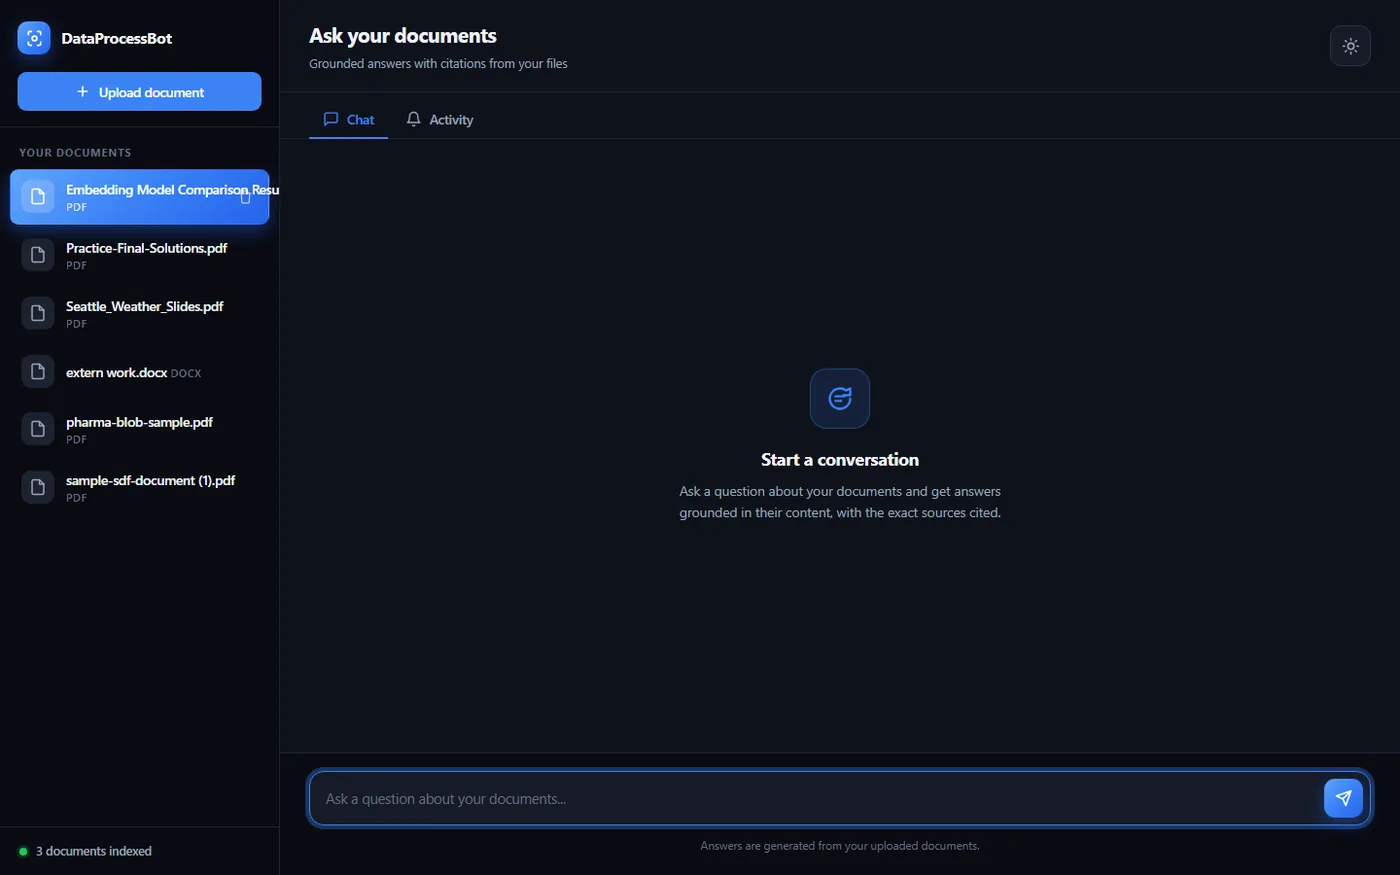
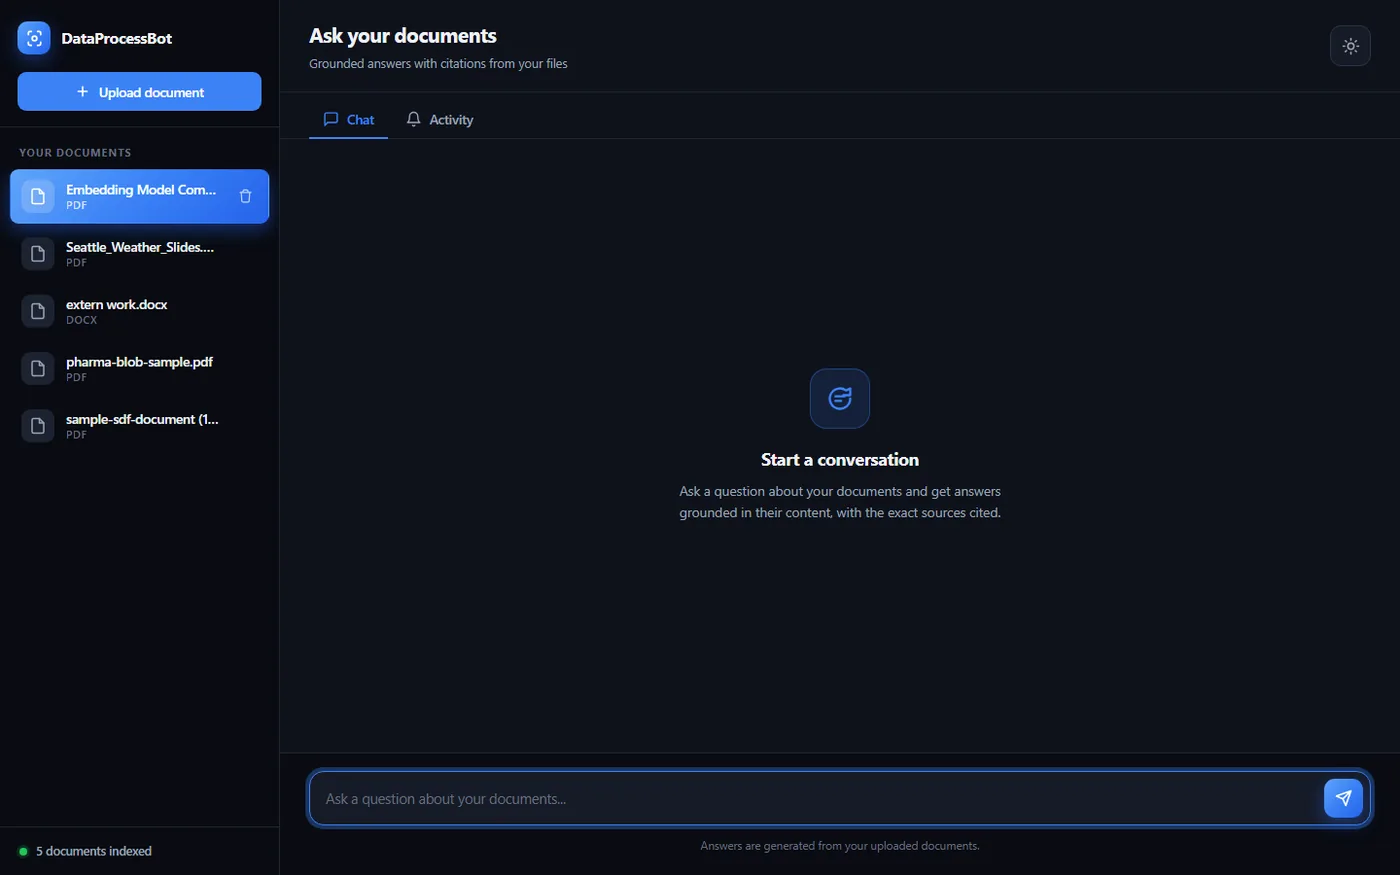
Add headshot and refresh DataProcessBot screenshot

diff --git a/index.html b/index.html
@@ -195,6 +195,12 @@ tr:last-child td{border-bottom:0}
 .lb.open{display:flex}
 .lb img{max-width:100%;max-height:100%;border-radius:6px;box-shadow:0 20px 60px rgba(0,0,0,.5)}
 .lb button{position:absolute;top:16px;right:18px;background:none;border:1px solid rgba(255,255,255,.4);color:#fff;border-radius:6px;padding:4px 10px;font:inherit;cursor:pointer}
+.avatar{width:72px;height:72px;border-radius:50%;object-fit:cover;display:block;margin-bottom:18px;border:1px solid var(--rule2);background:var(--panel)}
+.avatar.sm{width:52px;height:52px;margin:0}
+.avatar.lg{width:140px;height:140px;margin:4px 0 0}
+.mrow{display:flex;align-items:center;gap:14px}
+.mrow b{font-weight:600;font-size:1.05rem}
+.story{display:grid;grid-template-columns:140px 1fr;gap:32px;align-items:start}
 .pindex{border-top:1px solid var(--rule2)}
 .prow{border-bottom:1px solid var(--rule)}
 .prow summary{list-style:none;cursor:pointer;display:grid;grid-template-columns:minmax(0,1fr) minmax(0,1.5fr) 56px 22px;gap:20px;align-items:baseline;padding:20px 0}
@@ -309,7 +315,8 @@ footer{border-top:1px solid var(--rule);padding:22px 0 0;margin-top:40px;display
 }
 @media (max-width:620px){
   body{font-size:16px}
-  .grid2,.courses,.two,.go,.looking,.kinds,.how,.shots2{grid-template-columns:1fr}
+  .grid2,.courses,.two,.go,.looking,.kinds,.how,.shots2,.story{grid-template-columns:1fr}
+  .avatar.lg{width:96px;height:96px}
   .dg-svg{display:none}
   .dg-list{display:block}
   .pipe{flex-direction:column}
@@ -336,6 +343,7 @@ footer{border-top:1px solid var(--rule);padding:22px 0 0;margin-top:40px;display
 <div class="layout">
   <aside>
     <div class="who">
+      <img class="avatar" src="img/headshot.webp" alt="Abbilash Shivaparan" width="72" height="72">
       <h1>Abbilash Shivaparan</h1>
       <div class="role">Information Science, minor in Data Science<br>University of Maryland, Class of 2027</div>
       <p class="bio">I build data and AI tools, and I research how far we can actually trust them.</p>
@@ -377,7 +385,7 @@ footer{border-top:1px solid var(--rule);padding:22px 0 0;margin-top:40px;display
     <main id="main">
 
       <section class="page" id="home" data-title="Abbi Shivaparan">
-        <div class="mintro" style="display:none"><div class="avail" style="margin-top:0">Open to new grad 2027 roles</div></div>
+        <div class="mintro" style="display:none"><div class="mrow"><img class="avatar sm" src="img/headshot.webp" alt="Abbilash Shivaparan" width="52" height="52"><div><b>Abbilash Shivaparan</b><div class="avail" style="margin-top:2px">Open to new grad 2027 roles</div></div></div></div>
         <p class="statement">I build data and AI tools, <span>and lately I've been researching how far we can actually trust them.</span></p>
         <p class="lead">I'm Abbi, an Information Science student at the University of Maryland with a minor in Data Science. I've done data work at NJ TRANSIT, built AI document tools during a Pfizer externship, and right now I'm doing research in Joel Chan's lab on how well AI breaks down research papers. Most of what I do sits somewhere between data, software, and research, and this site is basically all of it in one place.</p>
         <dl class="facts">
@@ -821,10 +829,12 @@ footer{border-top:1px solid var(--rule);padding:22px 0 0;margin-top:40px;display
         <p class="psub">The longer version, plus how to reach me.</p>
 
         <h3 class="ph">My story</h3>
+        <div class="story"><img class="avatar lg" src="img/headshot.webp" alt="Abbilash Shivaparan" width="140" height="140" loading="lazy">
         <div class="prose">
           <p>I grew up in Princeton, New Jersey, and I'm Tamil. My first real tech job started in 2022, doing IT support at a medical office. It wasn't glamorous, but it taught me how to fix things quickly for people who just need them to work, and how seriously you have to take data when it belongs to patients.</p>
           <p>I started at Maryland in 2023 in Information Science. The next summer I started interning at NJ TRANSIT, and that's where data clicked for me. Seeing a Python script replace hours of people checking addresses by hand made me realize how much of a difference small tools can make.</p>
           <p>AI came next. My Pfizer externship got me deep into RAG and LLMs, and that turned into DataProcessBot. The more I built with AI, though, the more I wanted to know when it can actually be trusted, which is how I ended up doing research in Joel Chan's lab this fall.</p>
+        </div>
         </div>
 
         <h3 class="ph">How I like to work</h3>
